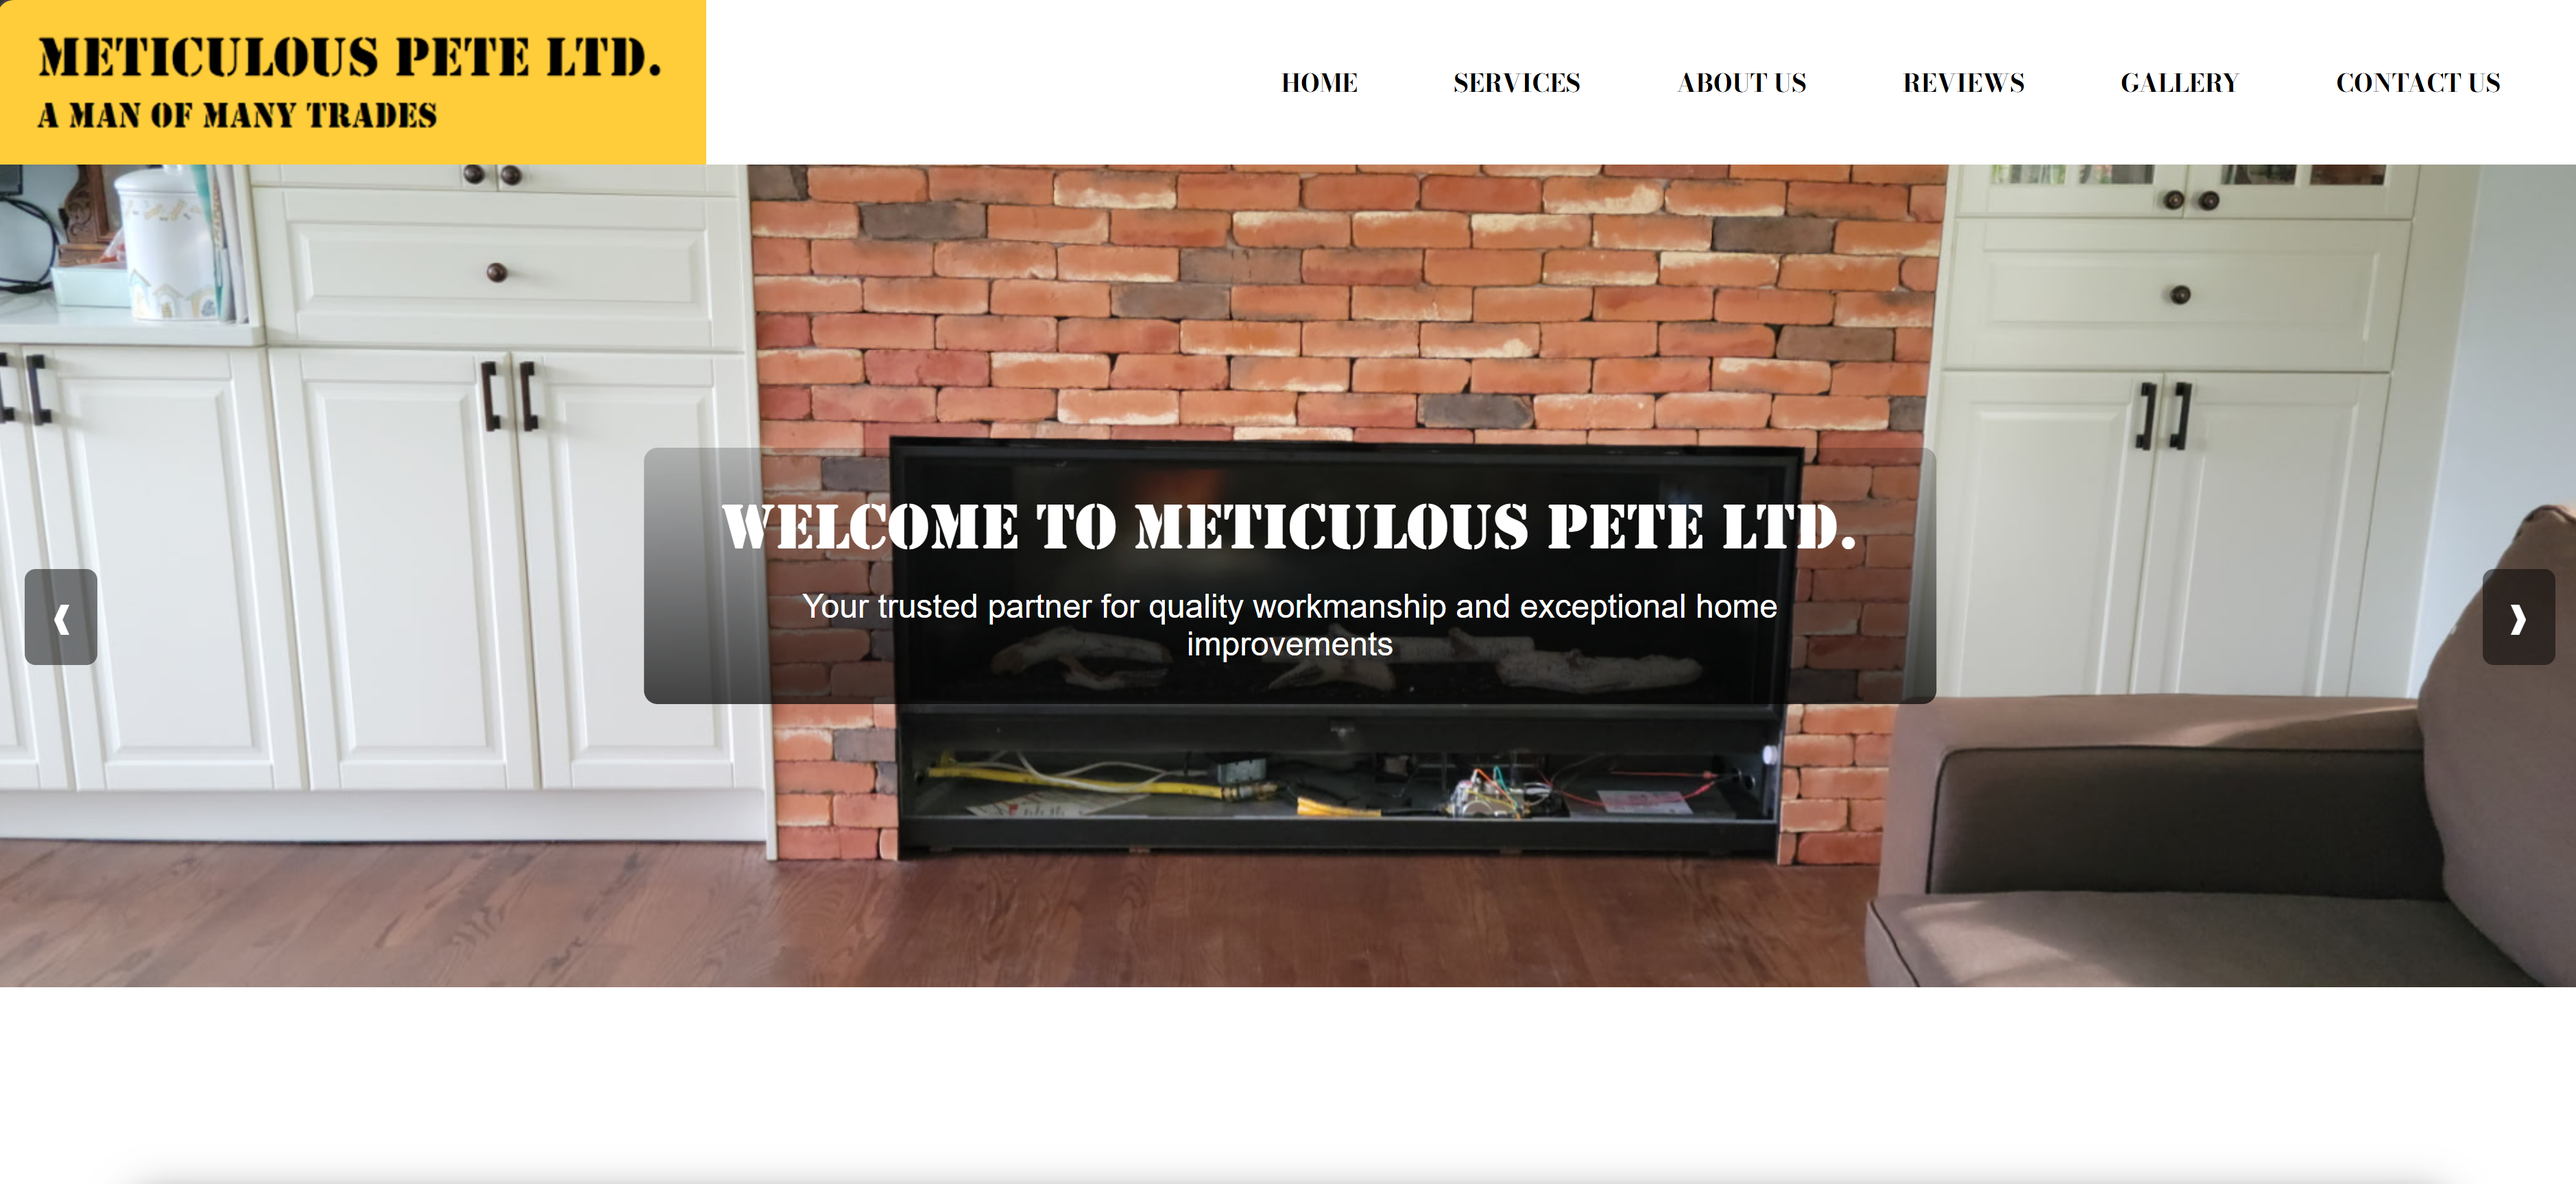
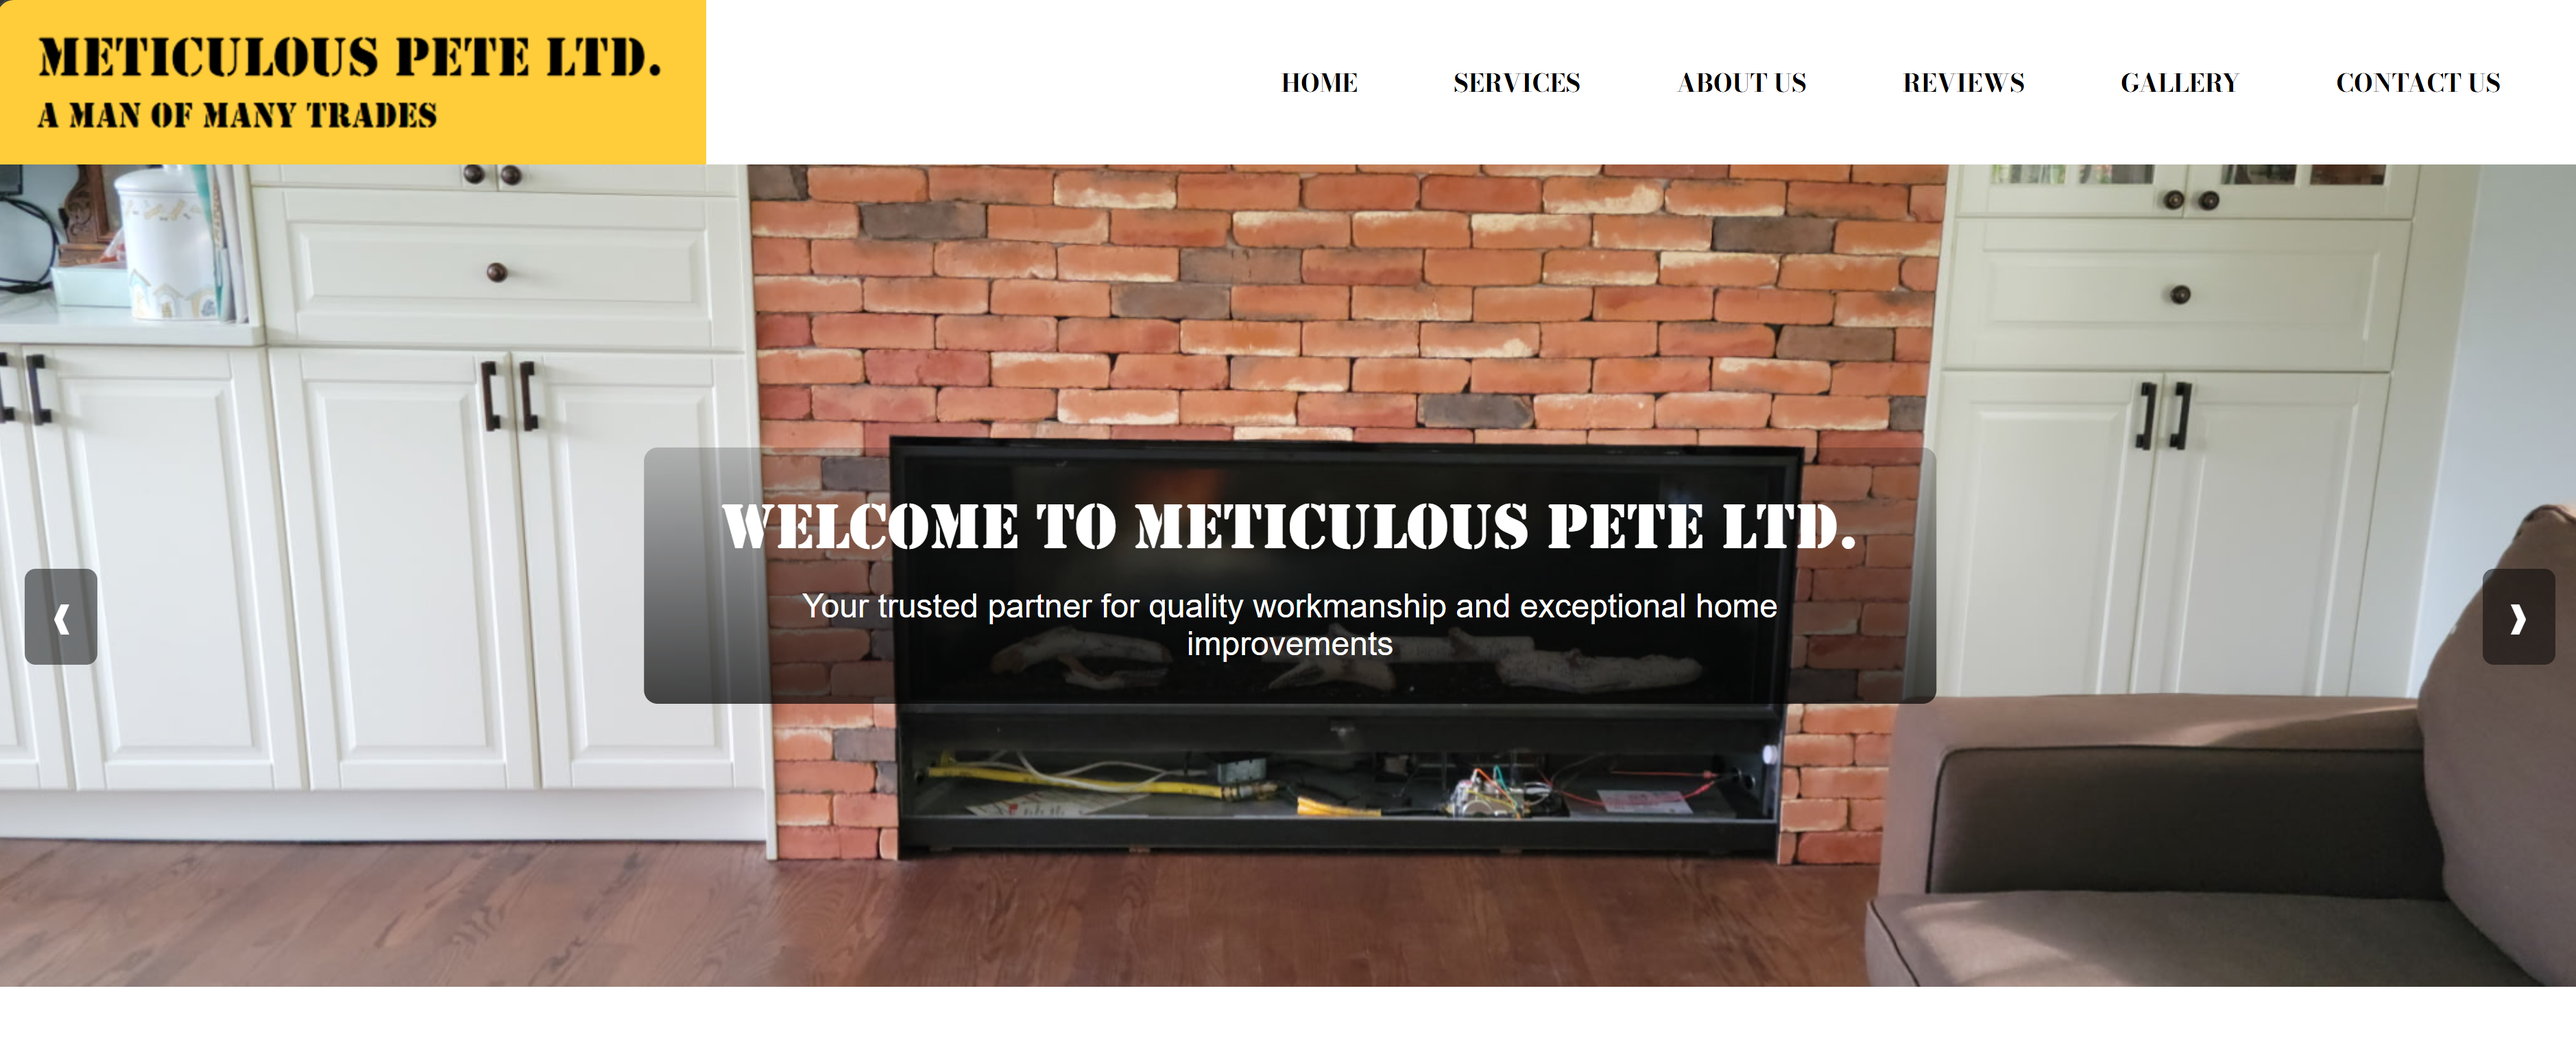
Projects Window Text and Images Edited

diff --git a/index.html b/index.html
@@ -757,10 +757,15 @@
         <span class="divider"></span>
         <h3>Meticulous Pete Ltd. (Sept 2025 - Apr 2026)</h3>
         <div class="picture-desc">
-          <img
-            src="src/pictures/projects_pic/Meticulous_Pete_Ltd.png"
-            alt="Meticulous_Pete_Ltd"
-          />
+          <a
+            href="src/pictures/projects_pic/Meticulous_Pete_Ltd.png"
+            target="_blank"
+          >
+            <img
+              src="src/pictures/projects_pic/Meticulous_Pete_Ltd.png"
+              alt="Meticulous_Pete_Ltd"
+            />
+          </a>
           <p>
             Acting as the primary point of contact for the client to define
             business goals, project scope, and user requirements. Designing a
@@ -768,8 +773,10 @@
             audience to improve digital presence and brand engagement. Managing
             the full project lifecycle from initial wireframes and discovery
             calls to deployment and testing. Developing a responsive front-end
-            using HTML, CSS, JavaScript ensuring browser and mobile
-            capability.<br />Website Link:
+            using HTML, CSS, JavaScript ensuring browser and mobile capability.
+          </p>
+          <p>
+            Website Link:
             <a href="https://www.meticulouspete.com/" target="_blank"
               >https://www.meticulouspete.com/</a
             >
@@ -779,10 +786,12 @@
         <span class="divider"></span>
         <h3>Valence Noir (In Progress)</h3>
         <div class="picture-desc">
-          <img
-            src="src/pictures/projects_pic/Valence Noir.png"
-            alt="Valence Noir Image"
-          />
+          <a href="src/pictures/projects_pic/Valence Noir.png" target="_blank">
+            <img
+              src="src/pictures/projects_pic/Valence Noir.png"
+              alt="Valence Noir Image"
+            />
+          </a>
           <p>
             A personal front-end project built to practice HTML, CSS, and
             JavaScript, designing a fictional luxury fashion e-commerce site in
@@ -791,8 +800,10 @@
             palette, and a layout meant to reflect classic, old-money elegance.
             Next planned steps include shopping pages where users can browse and
             filter products. The project isn't live and is hosted on GitHub as
-            an ongoing space to practice front-end design and development.<br />GitHub
-            Repo Link:
+            an ongoing space to practice front-end design and development.
+          </p>
+          <p>
+            GitHub Repo Link:
             <a
               href="https://github.com/prou0212/XYZ-Manufacturing-Company"
               target="_blank"
@@ -804,10 +815,12 @@
         <span class="divider"></span>
         <h3>XYZ Manufacturing Database Design (Fall Term 2025)</h3>
         <div class="picture-desc">
-          <img
-            src="src/pictures/projects_pic/Postgres.png"
-            alt="Database Assignment 2"
-          />
+          <a href="src/pictures/projects_pic/Postgres_2.png" target="_blank">
+            <img
+              src="src/pictures/projects_pic/Postgres_2.png"
+              alt="Database Assignment 2"
+            />
+          </a>
           <p>
             As part of a team of 3, The team designed a relational database for
             a manufacturing company's customer order and product application.
@@ -819,7 +832,10 @@
             tables, keys, and constraints, populated the database with test
             data, and authored a series of SQL queries covering joins,
             aggregates, GROUP BY/HAVING, and subqueries, along with dynamic and
-            materialized views.<br />GitHub Repo Link:
+            materialized views.
+          </p>
+          <p>
+            GitHub Repo Link:
             <a
               href="https://github.com/prou0212/XYZ-Manufacturing-Company"
               target="_blank"
@@ -829,10 +845,15 @@
         </div>
         <div class="picture-desc">
           <h3>Record Collection Database Design (Winter Term 2026)</h3>
-          <img
-            src="src/pictures/projects_pic/recordcollection.png"
-            alt="Record Collection Image"
-          />
+          <a
+            href="src/pictures/projects_pic/recordcollection.png"
+            target="_blank"
+          >
+            <img
+              src="src/pictures/projects_pic/recordcollection.png"
+              alt="Record Collection Image"
+            />
+          </a>
           <p>
             As part of a team of 3, I helped design and build a database
             application for managing a vinyl record collection, tracking
@@ -844,7 +865,10 @@
             modeling the database relationships, including many-to-many links
             between artists, albums, songs, and producers, and helped build out
             the Access forms, search functionality, and backup/restore process
-            for the SQL Server database.<br />Website Link:
+            for the SQL Server database.
+          </p>
+          <p>
+            GitHub Repo Link:
             <a
               href="https://github.com/prou0212/Record-Collection"
               target="_blank"
@@ -854,10 +878,12 @@
         </div>
         <div class="picture-desc">
           <h3>Recipe Management System (Winter Term 2026)</h3>
-          <img
-            src="src/pictures/projects_pic/Web Assignment 2.png"
-            alt="Recipe Management"
-          />
+          <a href="src/pictures/projects_pic/Web Assignment 2.png">
+            <img
+              src="src/pictures/projects_pic/Web Assignment 2.png"
+              alt="Recipe Management"
+            />
+          </a>
           <p>
             As part of a cross-functional team of 3, including designers, I
             helped build a responsive full-stack web application using HTML,
@@ -866,8 +892,10 @@
             authentication system that enabled personalized experiences and
             saved preferences for each user. Throughout the project, I took part
             in team code reviews and used Git/GitHub for version control,
-            helping maintain a clean, collaborative commit history.<br />Website
-            Link:
+            helping maintain a clean, collaborative commit history.
+          </p>
+          <p>
+            GitHub Repo Link:
             <a
               href="https://github.com/prou0212/Web-Assignment-2"
               target="_blank"
